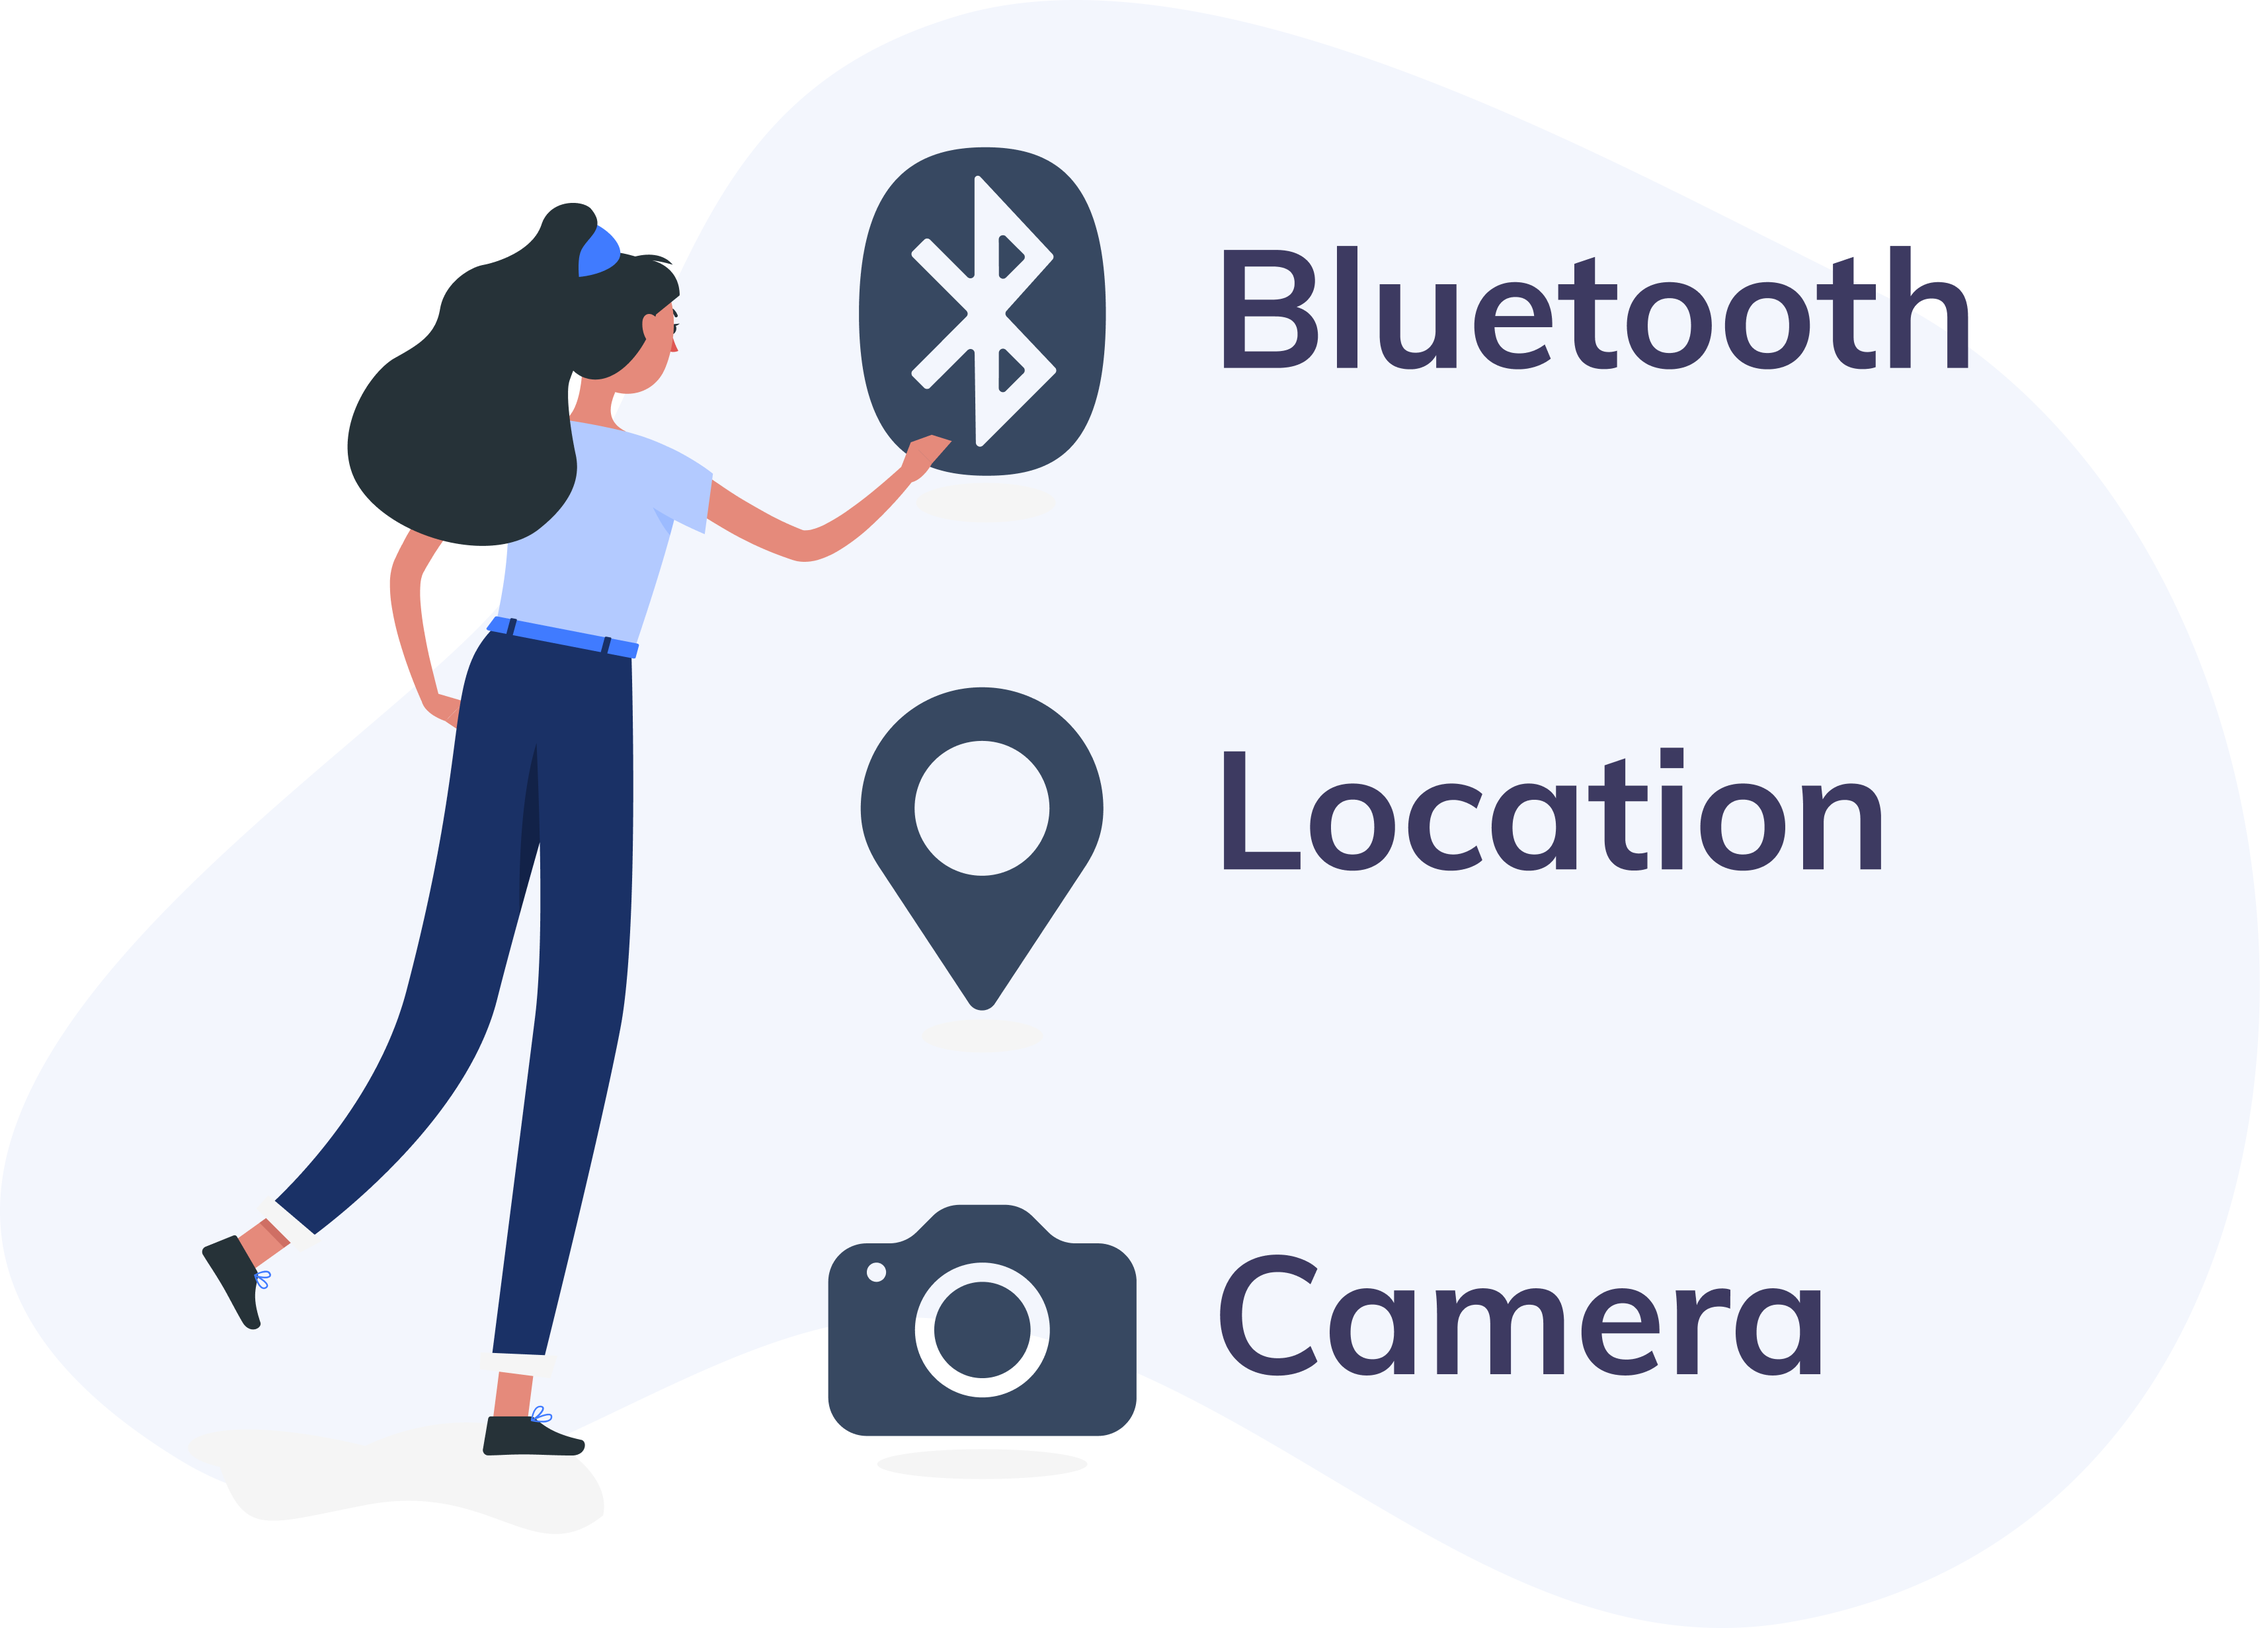
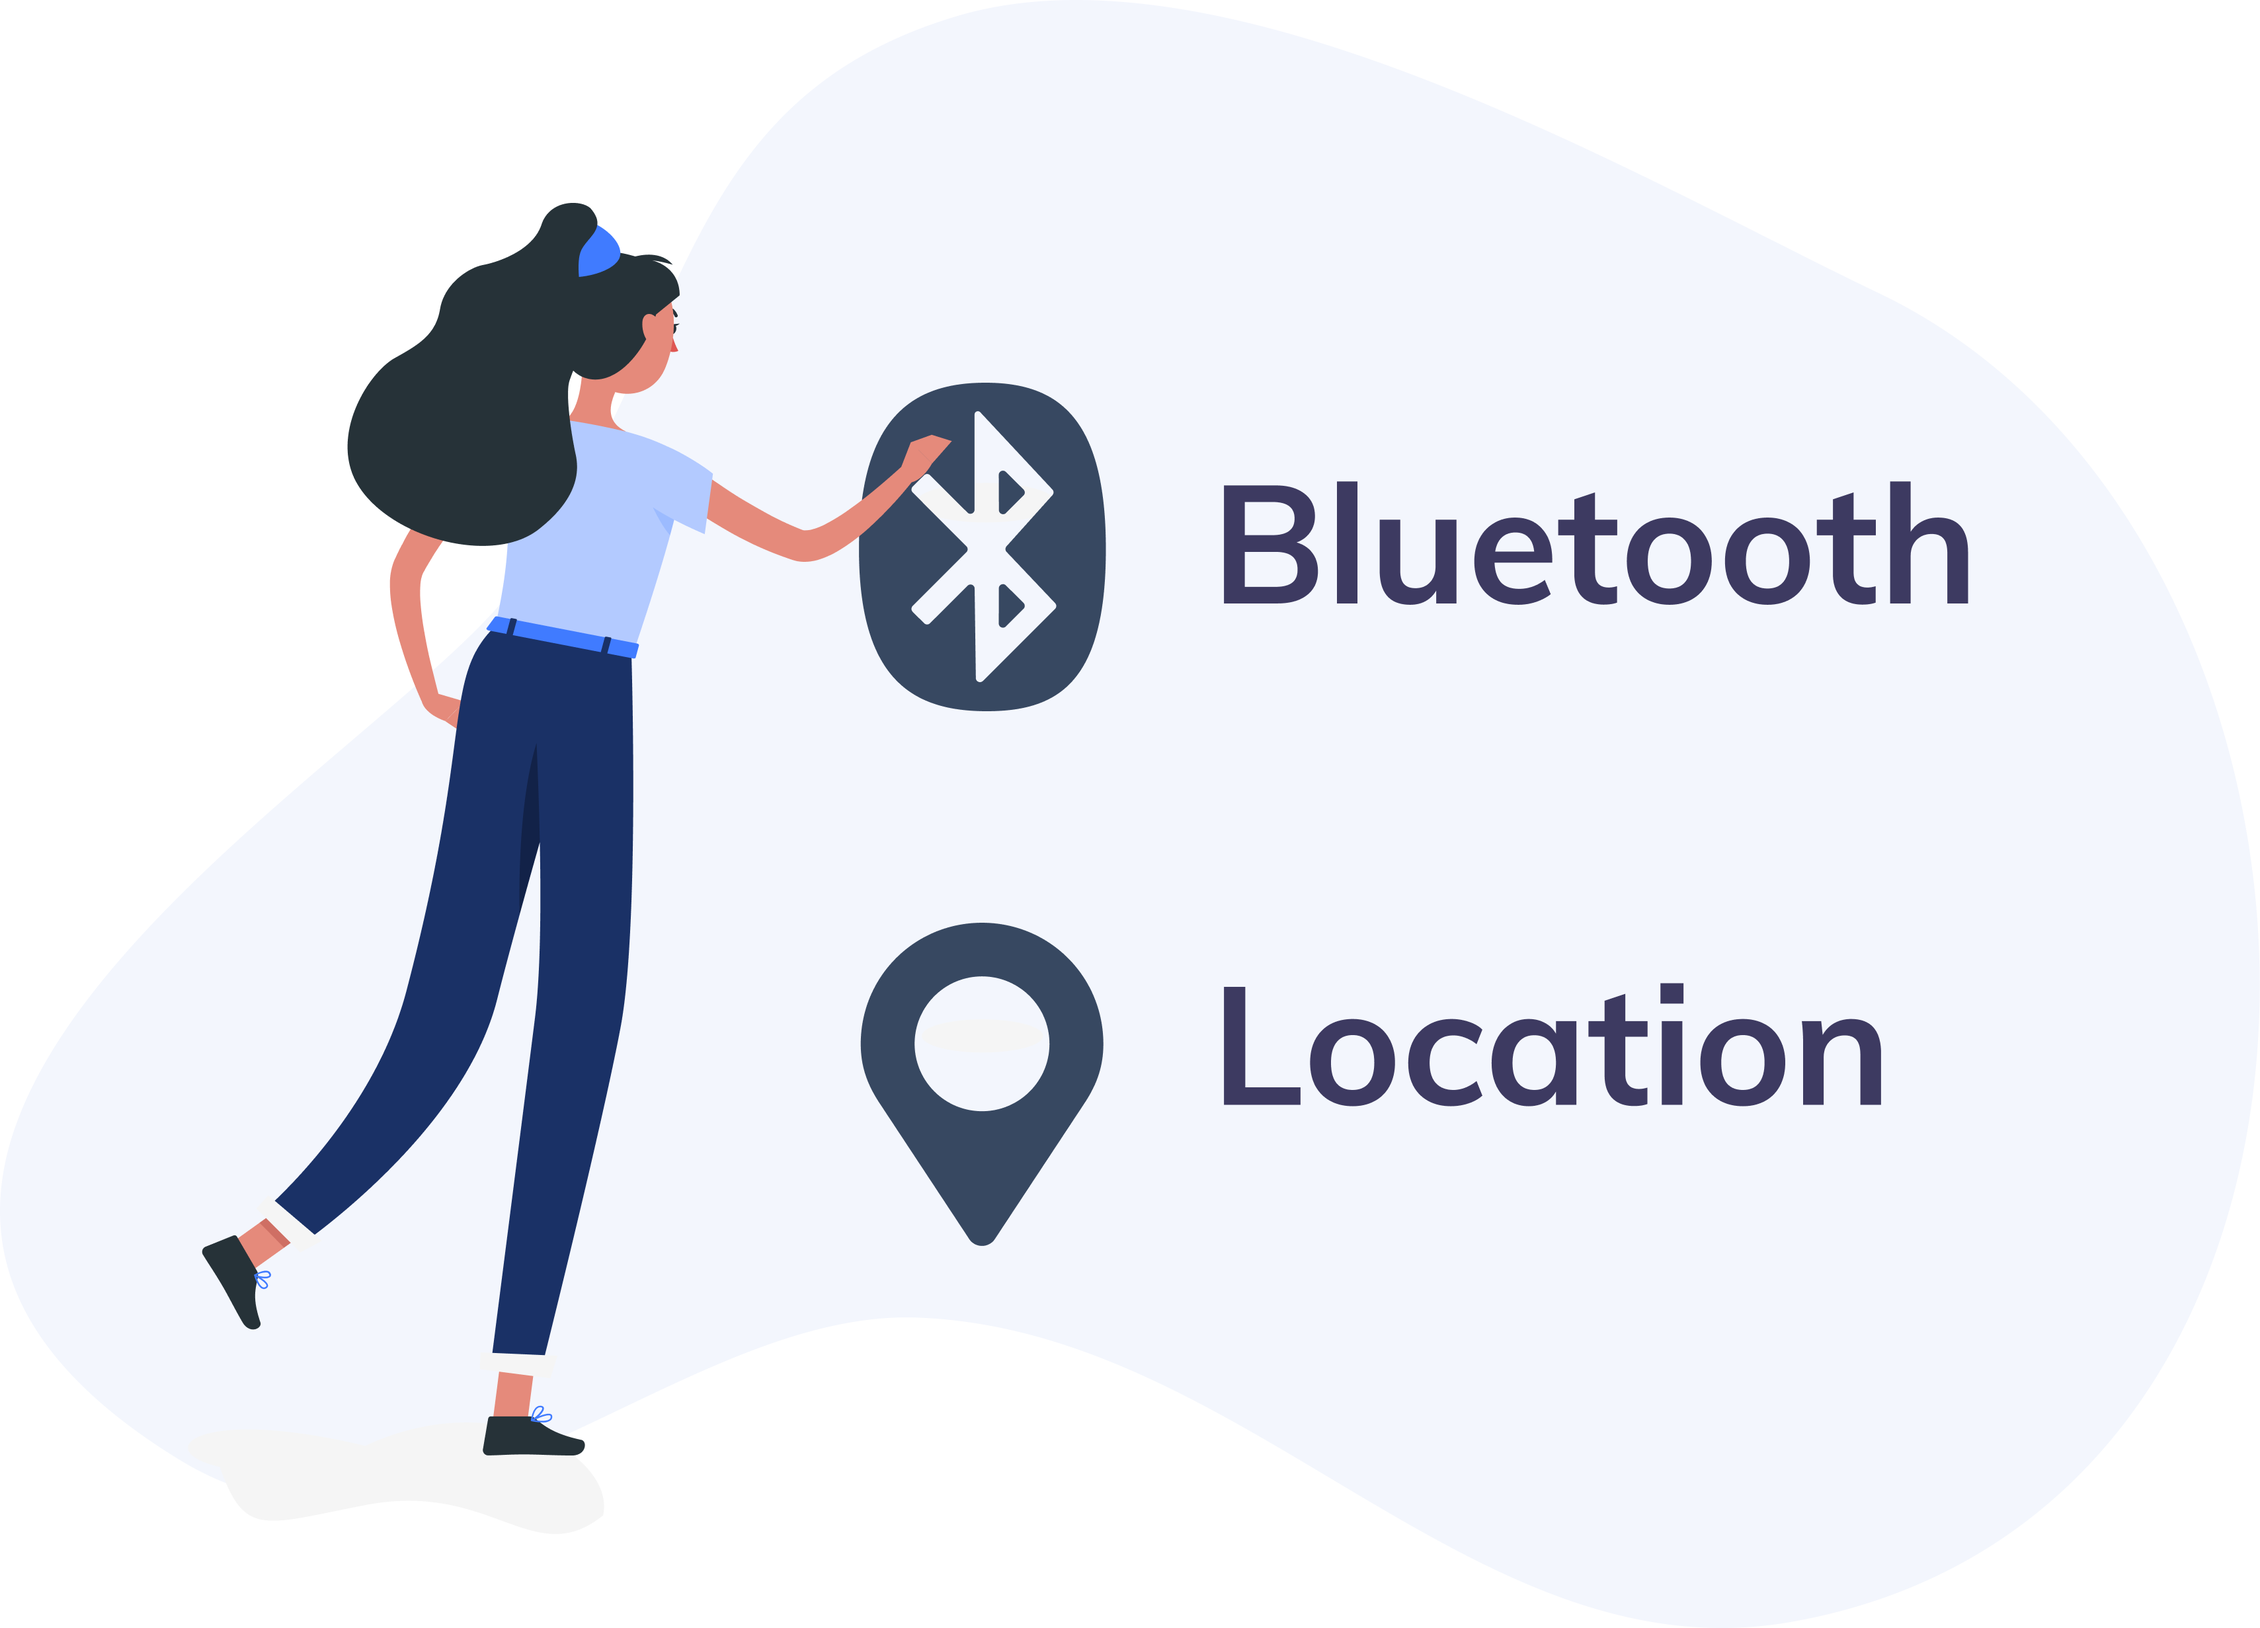
found solution to compass rotation to destination

diff --git a/lib/controllers/permission_controller.dart b/lib/controllers/permission_controller.dart
@@ -10,7 +10,7 @@ class PermissionController extends GetxController {
   var locationPermissionGranted = false.obs;
   var cameraPermissionGranted = false.obs;
   var bluetoothStatus = false.obs;
-  final beaconController = Get.put(BeaconController());
+  final beaconController = Get.find<BeaconController>();
 
   @override
   void onInit() {
@@ -18,42 +18,42 @@ class PermissionController extends GetxController {
     checkPermissionStatus();
   }
 
-  void askForPermission() async {
-    locationPermissionGranted.value =
-        await Permission.location.status.isGranted;
-    cameraPermissionGranted.value = await Permission.camera.request().isGranted;
-    bluetoothStatus.value = await FlutterBlue.instance.isOn;
+  void askPermission() async {
+    var locStatus = await Permission.location.request();
+    locationPermissionGranted.value = locStatus.isGranted;
+    checkPermissionStatus();
   }
 
   // TODO: Unknown bug in checkPermissionStatus, when permission is not allowed, when user
   // click on "open settings" and enabled permission and goes back to app,
   // beaconController.beaconInitPlatformState() does not work properly
   void checkPermissionStatus() async {
-    // var locationStatus = await Permission.location.status;
+    var locationStatus = await Permission.location.status;
     // var cameraStatus = await Permission.camera.status;
 
-    Map<Permission, PermissionStatus> statuses = await [
-      Permission.location,
-      Permission.camera,
-    ].request();
+    // Map<Permission, PermissionStatus> statuses = await [
+    //   Permission.location,
+    //   Permission.camera,
+    // ].request();
 
-    if (statuses[Permission.location] != PermissionStatus.granted) {
-      var locStatus = await Permission.location.request();
-      locationPermissionGranted.value = locStatus.isGranted;
-    } else {
+    if (locationStatus == PermissionStatus.granted) {
       locationPermissionGranted.value = true;
     }
 
-    if (statuses[Permission.camera] != PermissionStatus.granted) {
-      var camStatus = await Permission.camera.request();
-      cameraPermissionGranted.value = camStatus.isGranted;
-    } else {
-      cameraPermissionGranted.value = true;
-    }
+    // if (statuses[Permission.camera] != PermissionStatus.granted) {
+    //   var camStatus = await Permission.camera.request();
+    //   cameraPermissionGranted.value = camStatus.isGranted;
+    // } else {
+    //   cameraPermissionGranted.value = true;
+    // }
 
     bluetoothStatus.value = await FlutterBlue.instance.isOn;
     print("Permission Status: " + locationPermissionGranted.value.toString());
     print("Bluetooth Status: " + bluetoothStatus.value.toString());
-    print("Camera Status: " + cameraPermissionGranted.value.toString());
+    // print("Camera Status: " + cameraPermissionGranted.value.toString());
+    // if (locationPermissionGranted.value && bluetoothStatus.value) {
+    //   beaconController.beaconInitPlatformState();
+    //   beaconController.startMonitoring();
+    // }
   }
 }

diff --git a/lib/views/navigation_page.dart b/lib/views/navigation_page.dart
@@ -7,6 +7,7 @@ import 'package:ble_pathfinder/utils/size_config.dart';
 import 'package:ble_pathfinder/utils/size_helpers.dart';
 import 'package:ble_pathfinder/widgets/compass_painter.dart';
 import 'package:ble_pathfinder/widgets/compass_parent_painter.dart';
+import 'package:ble_pathfinder/widgets/compass_widget.dart';
 import 'package:ble_pathfinder/widgets/rounded_button.dart';
 import 'package:flutter/material.dart';
 import 'package:get/get.dart';
@@ -81,7 +82,7 @@ class NavigationPage extends StatelessWidget {
                               height: displayHeight(context) * 0.35,
                               key: UniqueKey(),
                               child: Text(
-                                'Go Up One Level',
+                                'Go Down One Level',
                                 style: TextStyle(
                                   fontSize:
                                       getDefaultProportionateScreenWidth(),
@@ -95,7 +96,7 @@ class NavigationPage extends StatelessWidget {
                                   height: displayHeight(context) * 0.35,
                                   key: UniqueKey(),
                                   child: Text(
-                                    'Go Down One Level',
+                                    'Go Up One Level',
                                     style: TextStyle(
                                       fontSize:
                                           getDefaultProportionateScreenWidth(),
@@ -107,22 +108,7 @@ class NavigationPage extends StatelessWidget {
                                   ? Container(
                                       alignment: Alignment(0, 0),
                                       key: UniqueKey(),
-                                      child: CustomPaint(
-                                        foregroundPainter: CompassParentPainter(
-                                          locationAngle: navigationController
-                                              .directionDegree.value,
-                                        ),
-                                        child: CustomPaint(
-                                          foregroundPainter: CompassPainter(
-                                            angle:
-                                                compassController.heading.value,
-                                          ),
-                                          child: Center(
-                                            child:
-                                                Text(compassController.readout),
-                                          ),
-                                        ),
-                                      ),
+                                      child: CompassWidget(),
                                     )
                                   : Container(
                                       alignment: Alignment(0, 0),

diff --git a/lib/widgets/compass_painter.dart b/lib/widgets/compass_painter.dart
@@ -1,12 +1,35 @@
 import 'dart:math';
 
+import 'package:ble_pathfinder/controllers/compass_controller.dart';
 import 'package:flutter/material.dart';
+import 'package:get/get.dart';
 
 class CompassPainter extends CustomPainter {
-  CompassPainter({@required this.angle}) : super();
+  CompassPainter({
+    @required this.currentBearing,
+    @required this.locationBearing,
+  }) : super();
 
-  final double angle;
-  double get rotation => ((angle ?? 0) * (pi / 180));
+  final double currentBearing, locationBearing;
+  final compassController = Get.find<CompassController>();
+  double get rotation => ((currentBearing ?? 0) * (pi / 180));
+
+  // double get rotation {
+  //   if (compassController.currentBearingSnapshot == null) {
+  //     compassController.currentBearingSnapshot = currentBearing;
+  //     compassController.locationBearingSnapshot = locationBearing;
+  //     return locationBearing;
+  //   } else {
+  //     return ((currentBearing - compassController.currentBearingSnapshot) *
+  //             -1) *
+  //         (pi / 180);
+  //   }
+  //   // var currentRotation = ((currentBearing ?? 0) * (pi / 180));
+  //   // var offsetRotation = (currentBearing - locationBearing).abs() * (pi / 180);
+  //   // return currentRotation + offsetRotation;
+
+  //   // return (angle - bearingDiff).abs() * (pi / 180);
+  // }
 
   Paint get _brush => new Paint()
     ..style = PaintingStyle.stroke

diff --git a/lib/widgets/compass_widget.dart b/lib/widgets/compass_widget.dart
@@ -1,0 +1,33 @@
+import 'package:ble_pathfinder/controllers/compass_controller.dart';
+import 'package:ble_pathfinder/controllers/navigation_controller.dart';
+import 'package:flutter/material.dart';
+import 'package:get/get.dart';
+
+import 'compass_painter.dart';
+import 'compass_parent_painter.dart';
+
+class CompassWidget extends StatelessWidget {
+  final navigationController = Get.find<NavigationController>();
+  final compassController = Get.find<CompassController>();
+
+  @override
+  Widget build(BuildContext context) {
+    return Obx(
+      () => CustomPaint(
+        foregroundPainter: CompassParentPainter(
+          currentBearing: compassController.heading.value,
+          locationBearing: navigationController.directionDegree.value,
+        ),
+        child: CustomPaint(
+          foregroundPainter: CompassPainter(
+            currentBearing: compassController.heading.value,
+            locationBearing: navigationController.directionDegree.value,
+          ),
+          child: Center(
+            child: Text(compassController.readout),
+          ),
+        ),
+      ),
+    );
+  }
+}

diff --git a/lib/widgets/compass_parent_painter.dart b/lib/widgets/compass_parent_painter.dart
@@ -1,13 +1,25 @@
 import 'dart:math';
 
+import 'package:ble_pathfinder/controllers/compass_controller.dart';
 import 'package:ble_pathfinder/utils/constants.dart';
 import 'package:flutter/material.dart';
+import 'package:get/get.dart';
 
 class CompassParentPainter extends CustomPainter {
-  CompassParentPainter({@required this.locationAngle}) : super();
+  CompassParentPainter({
+    @required this.currentBearing,
+    @required this.locationBearing,
+  }) : super();
 
-  final double locationAngle;
-  double get rotation => ((locationAngle ?? 0) * (pi / 180));
+  final double currentBearing, locationBearing;
+  final compassController = Get.find<CompassController>();
+  // double get rotation => ((currentBearing ?? 0) * (pi / 180) * -1);
+
+  double get rotation {
+    double direction = locationBearing - currentBearing;
+    if (direction < 0) direction += 360;
+    return direction * (pi / 180);
+  }
 
   Paint get _brush => new Paint()
     ..style = PaintingStyle.stroke

diff --git a/lib/views/splash_screen_page.dart b/lib/views/splash_screen_page.dart
@@ -25,8 +25,9 @@ class SplashScreenPage extends StatelessWidget {
       pageTransitionType: PageTransitionType.leftToRightWithFade,
       nextScreen: Obx(
         () => permissionController.locationPermissionGranted.value == false ||
-                permissionController.bluetoothStatus.value == false ||
-                permissionController.cameraPermissionGranted.value == false
+                permissionController.bluetoothStatus.value == false
+
+            // || permissionController.cameraPermissionGranted.value == false
             ? PermissionPage()
             : SelectionPage(),
       ),

diff --git a/lib/controllers/navigation_controller.dart b/lib/controllers/navigation_controller.dart
@@ -73,7 +73,8 @@ class NavigationController extends GetxController {
                 levelNavigation.value = LevelNavigation.go_up;
                 break;
               default:
-                levelNavigation.value = LevelNavigation.same_level;
+                if (levelNavigation.value != LevelNavigation.same_level)
+                  levelNavigation.value = LevelNavigation.same_level;
                 break;
             }
 

diff --git a/lib/controllers/compass_controller.dart b/lib/controllers/compass_controller.dart
@@ -3,6 +3,8 @@ import 'package:get/get.dart';
 
 class CompassController extends GetxController {
   final heading = 0.0.obs;
+  double currentBearingSnapshot;
+  double locationBearingSnapshot;
   String get readout => heading.toStringAsFixed(0) + '°';
 
   @override
